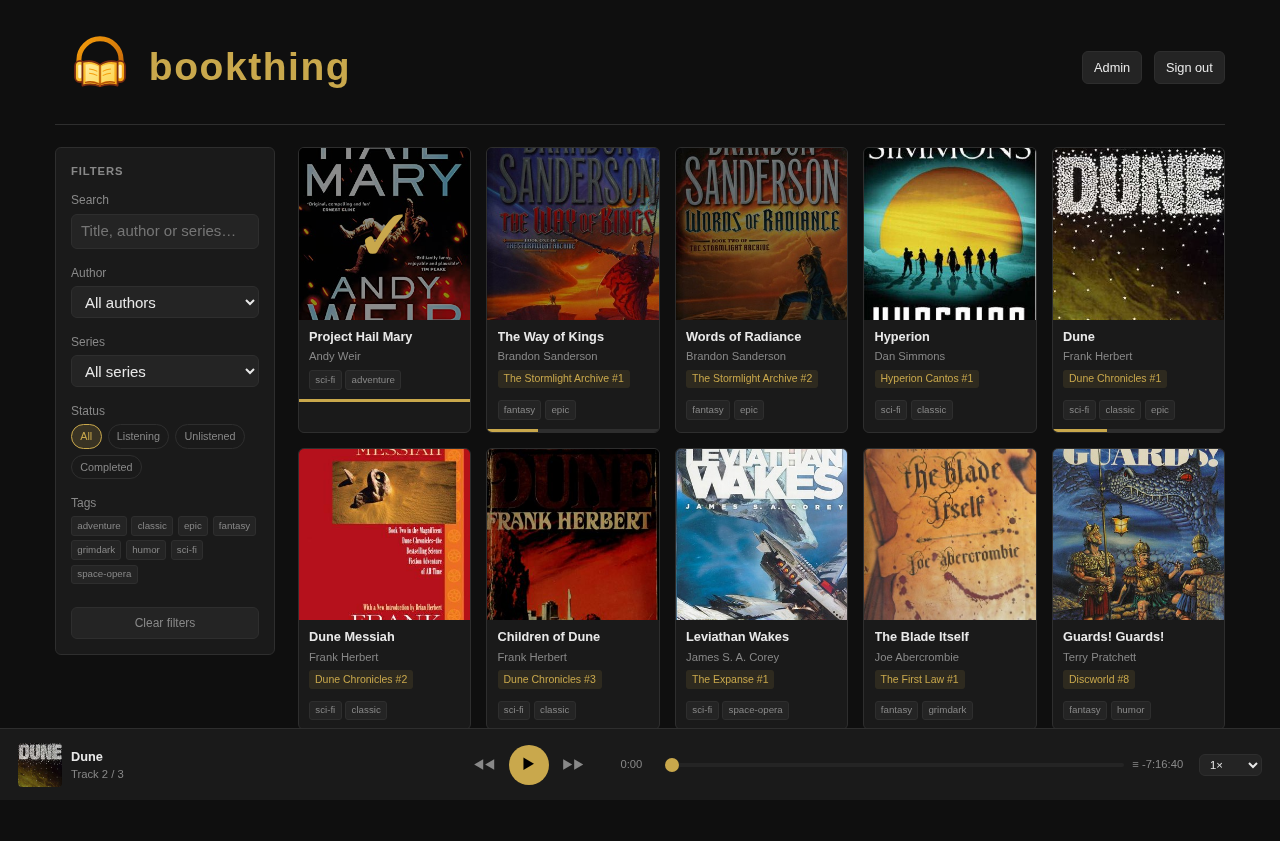
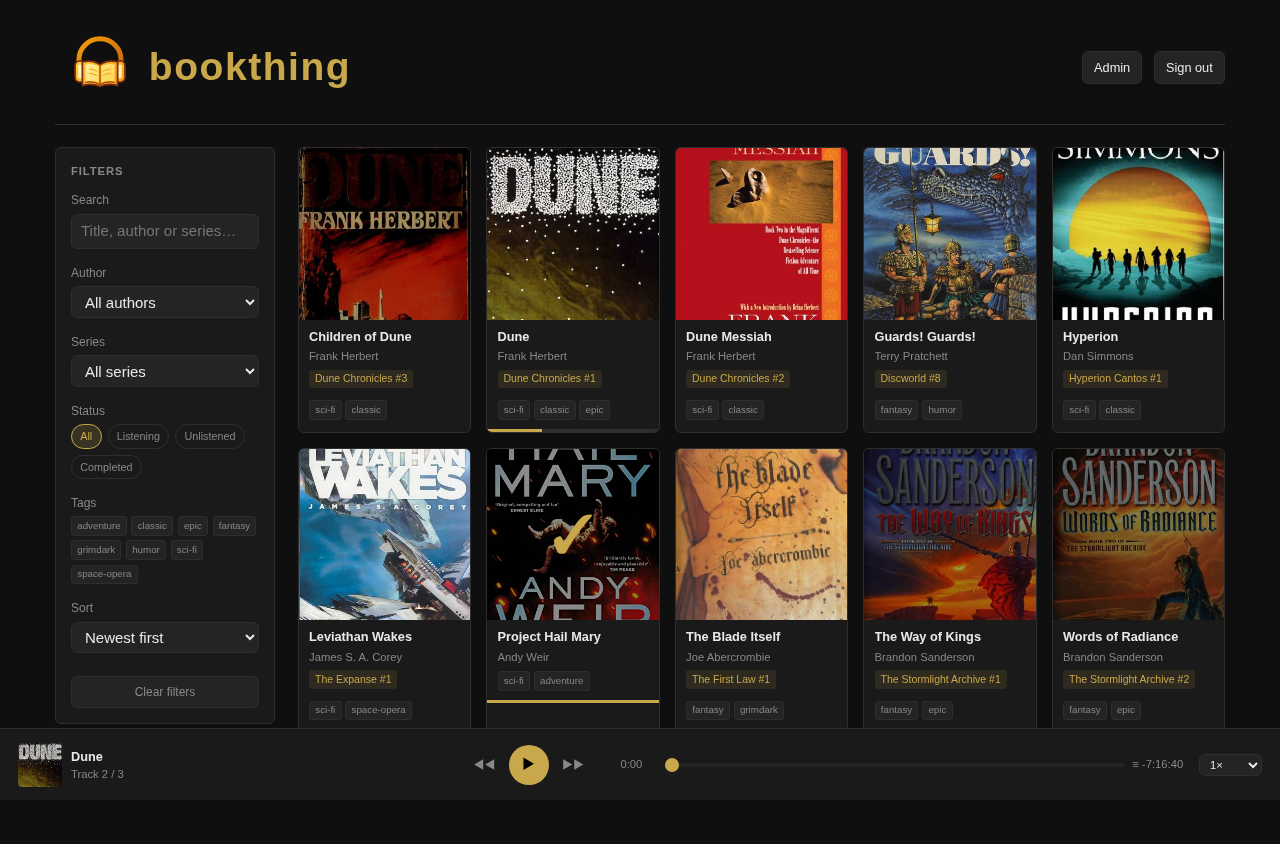
Add sort controls to library view (newest/oldest/series/author/title)
- Stamp date_added on new books during scan; preserve through rescans
- Default sort is newest first (date desc), with title A-Z as tiebreaker
- Series sort groups by series A-Z, then number, standalone books at end
- Regenerate screenshots and update README

diff --git a/static/app.js b/static/app.js
@@ -75,7 +75,7 @@ function route() {
 
 // ── Library state ──────────────────────────────────────────────────
 
-let filterState = { search: "", author: "", series: "", tags: [], status: "" };
+let filterState = { search: "", author: "", series: "", tags: [], status: "", sort: "newest" };
 let metaCache = { authors: null, series: null, tags: null };
 let savedLibraryScroll = 0;
 
@@ -283,6 +283,7 @@ async function refreshLibraryView(session) {
   if (filterState.author) params.set("author", filterState.author);
   if (filterState.series) params.set("series", filterState.series);
   if (filterState.tags.length) params.set("tags", filterState.tags.join(","));
+  params.set("sort", filterState.sort);
 
   let books, positions;
   try {
@@ -357,6 +358,16 @@ async function refreshLibraryView(session) {
           <label>Tags</label>
           <div class="filter-tag-chips" id="filter-tag-chips">${tagChipsFilter}</div>
         </div>
+        <div class="filter-group">
+          <label for="sort-select">Sort</label>
+          <select id="sort-select">
+            <option value="newest" ${filterState.sort === "newest" ? "selected" : ""}>Newest first</option>
+            <option value="oldest" ${filterState.sort === "oldest" ? "selected" : ""}>Oldest first</option>
+            <option value="series" ${filterState.sort === "series" ? "selected" : ""}>Series</option>
+            <option value="author" ${filterState.sort === "author" ? "selected" : ""}>Author</option>
+            <option value="title" ${filterState.sort === "title" ? "selected" : ""}>Title</option>
+          </select>
+        </div>
         <button class="btn btn-clear" id="clear-filters">Clear filters</button>
       </aside>
       <div class="book-grid" id="book-grid">${buildBookCards(books, positions)}</div>
@@ -391,6 +402,11 @@ async function refreshLibraryView(session) {
     refreshLibraryView(session);
   });
 
+  document.getElementById("sort-select").addEventListener("change", e => {
+    filterState.sort = e.target.value;
+    refreshLibraryView(session);
+  });
+
   document.getElementById("filter-tag-chips").addEventListener("click", e => {
     const chip = e.target.closest(".filter-tag-chip");
     if (!chip) return;
@@ -413,10 +429,11 @@ async function refreshLibraryView(session) {
   });
 
   document.getElementById("clear-filters").addEventListener("click", () => {
-    filterState = { search: "", author: "", series: "", tags: [], status: "" };
+    filterState = { search: "", author: "", series: "", tags: [], status: "", sort: "newest" };
     document.getElementById("search-input").value = "";
     document.getElementById("author-select").value = "";
     document.getElementById("series-select").value = "";
+    document.getElementById("sort-select").value = "newest";
     document.querySelectorAll(".filter-tag-chip").forEach(c => c.classList.remove("active"));
     document.querySelectorAll(".status-chip").forEach(c => c.classList.toggle("active", c.dataset.status === ""));
     refreshLibraryView(session);

diff --git a/app/books.py b/app/books.py
@@ -127,7 +127,7 @@ def clear_book_cover(book_id: str) -> bool:
     return True
 
 
-def get_book_list(search: str = None, author: str = None, series: str = None, tags: str = None) -> list:
+def get_book_list(search: str = None, author: str = None, series: str = None, tags: str = None, sort: str = "newest") -> list:
     data = load_metadata()
     books = list(data.get("books", {}).values())
 
@@ -154,23 +154,26 @@ def get_book_list(search: str = None, author: str = None, series: str = None, ta
             if any(t in [x.lower() for x in (b.get("tags") or [])] for t in tag_list)
         ]
 
-    # When filtering by series, sort by number in series; otherwise by author, series+number, title
-    if series:
-        def sort_key(b):
-            return (
-                b.get("number_in_series") or 0,
-                b.get("title") or "",
-            )
-    else:
-        def sort_key(b):
-            return (
-                b.get("author") or "",
+    if sort == "oldest":
+        books.sort(key=lambda b: (b.get("date_added") or "", b.get("title") or ""))
+    elif sort == "author":
+        books.sort(key=lambda b: (b.get("author") or "", b.get("title") or ""))
+    elif sort == "title":
+        books.sort(key=lambda b: (b.get("title") or ""))
+    elif sort == "series":
+        if series:
+            books.sort(key=lambda b: (b.get("number_in_series") or 0, b.get("title") or ""))
+        else:
+            books.sort(key=lambda b: (
+                0 if b.get("series") else 1,
                 b.get("series") or "",
                 b.get("number_in_series") or 0,
                 b.get("title") or "",
-            )
-
-    books.sort(key=sort_key)
+            ))
+    else:  # newest (default)
+        # stable sort: first by title A→Z, then by date desc (preserves title order within same date)
+        books.sort(key=lambda b: (b.get("title") or ""))
+        books.sort(key=lambda b: (b.get("date_added") or ""), reverse=True)
     return [_book_summary(b) for b in books]
 
 
@@ -257,6 +260,7 @@ def _book_summary(b: dict) -> dict:
         "has_cover": bool(_cover_exists(b)),
         "file_count": len(b.get("files") or []),
         "file_durations": b.get("file_durations") or [],
+        "date_added": b.get("date_added"),
     }
 
 

diff --git a/scripts/scan.py b/scripts/scan.py
@@ -8,6 +8,7 @@ import hashlib
 import json
 import re
 import sys
+from datetime import datetime, timezone
 from pathlib import Path
 
 # Allow running from any directory
@@ -363,6 +364,8 @@ def merge(existing: dict, new_entry: dict) -> dict:
     if existing_cover.startswith(UPLOADED_COVER_PREFIX) and "_emb." not in existing_cover:
         merged["cover"] = existing_cover
     merged.pop("missing", None)
+    if "date_added" in existing:
+        merged["date_added"] = existing["date_added"]
     return merged
 
 
@@ -389,6 +392,7 @@ def main():
         if book_id in existing_books:
             new_books[book_id] = merge(existing, entry)
         else:
+            entry["date_added"] = datetime.now(timezone.utc).isoformat()
             new_books[book_id] = entry
             print(f"  + New: {entry['path']}")
 

diff --git a/app/main.py b/app/main.py
@@ -218,9 +218,10 @@ def list_books(
     author: str = None,
     series: str = None,
     tags: str = None,
+    sort: str = "newest",
     _session=Depends(require_auth),
 ):
-    return books_module.get_book_list(search=search, author=author, series=series, tags=tags)
+    return books_module.get_book_list(search=search, author=author, series=series, tags=tags, sort=sort)
 
 
 @app.get("/api/books/{book_id}")

diff --git a/tests/test_books.py b/tests/test_books.py
@@ -64,7 +64,7 @@ class TestGetBookList:
         assert "book2" in ids
 
     def test_sorted_by_author_title(self, temp_metadata):
-        result = books_module.get_book_list()
+        result = books_module.get_book_list(sort="author")
         authors = [b["author"] for b in result]
         assert authors == sorted(authors)
 

diff --git a/README.md b/README.md
@@ -13,11 +13,12 @@ The library shows all your books as a grid. Books with reading progress show a p
 
 ![Filters](docs/screenshots/filters.png)
 
-Filter your library by any combination of:
+Filter and sort your library by any combination of:
 - Free-text search across title, author and series
 - Author and series dropdowns
 - Tag chips — click to toggle, multiple selected tags broaden the results (OR)
 - Status: All / Listening (in progress) / Unlistened / Completed
+- Sort: Newest first (default) / Oldest first / Series / Author / Title
 
 **Book detail**
 
